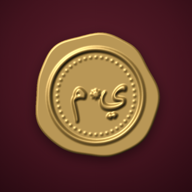
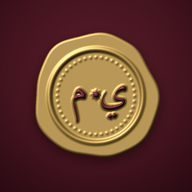
update stamp and names

Changed region(s): [[0.375, 0.4375, 0.6562, 0.625]]

diff --git a/share/seal.html b/share/seal.html
@@ -6,6 +6,7 @@
 <!--
   Wax seal artwork, 600x600 on a transparent background.
   Rendered to src/assets/seal-wine.png (default) and seal-gold.png (#gold).
+  The monogram is inlaid in the other colour: gold on the wine seal, wine on the gold one.
   The seal is lit with SVG lighting filters: the alpha channel of #height is the
   relief (raised rim, sunken field, raised monogram), so the shading is physical
   rather than painted on.
@@ -38,10 +39,31 @@ svg{display:block}
       <feComposite in="lit" in2="specIn" operator="arithmetic" k1="0" k2="1" k3="1" k4="0" result="shine"/>
       <feComposite in="shine" in2="solid" operator="in"/>
     </filter>
+
+    <!-- The inlaid monogram: its own relief, shrunk a touch so the wax bevel still frames it -->
+    <filter id="inlay" x="0" y="0" width="600" height="600" filterUnits="userSpaceOnUse" color-interpolation-filters="sRGB">
+      <feMorphology in="SourceAlpha" operator="erode" radius="1.6" result="shape"/>
+      <feComponentTransfer in="shape" result="solid"><feFuncA type="linear" slope="30"/></feComponentTransfer>
+      <feGaussianBlur in="shape" stdDeviation="2.4" result="bump"/>
+      <feDiffuseLighting in="bump" surfaceScale="4.5" diffuseConstant="1" lighting-color="#ffffff" result="diffuse">
+        <feDistantLight azimuth="235" elevation="50"/>
+      </feDiffuseLighting>
+      <feSpecularLighting in="bump" surfaceScale="4.5" specularConstant=".95" specularExponent="18" id="inlay-spec" lighting-color="#fff3cf" result="spec">
+        <feDistantLight azimuth="235" elevation="50"/>
+      </feSpecularLighting>
+      <feFlood id="inlay-colour" flood-color="#B38B45" result="colour"/>
+      <feComposite id="inlay-shade" in="colour" in2="diffuse" operator="arithmetic" k1="1.18" k2="0" k3="0" k4="0" result="lit"/>
+      <feComposite in="spec" in2="solid" operator="in" result="specIn"/>
+      <feComposite in="lit" in2="specIn" operator="arithmetic" k1="0" k2="1" k3="1" k4="0" result="shine"/>
+      <feComposite in="shine" in2="solid" operator="in"/>
+    </filter>
   </defs>
 
   <g filter="url(#wax)">
     <g id="height"></g>
+  </g>
+  <g filter="url(#inlay)">
+    <g id="inlay-art"></g>
   </g>
 </svg>
 
@@ -53,6 +75,13 @@ if (gold) {
   const spec = document.getElementById('spec-l');
   spec.setAttribute('lighting-color', '#fff0c8');
   spec.setAttribute('specularConstant', '.62');
+
+  // Wine monogram on gold wax
+  document.getElementById('inlay-colour').setAttribute('flood-color', '#5E1C2A');
+  document.getElementById('inlay-shade').setAttribute('k1', '1.1');
+  const inlaySpec = document.getElementById('inlay-spec');
+  inlaySpec.setAttribute('lighting-color', '#ffdfe5');
+  inlaySpec.setAttribute('specularConstant', '.4');
 }
 
 const NS = 'http://www.w3.org/2000/svg';
@@ -98,15 +127,20 @@ for (let i = 0; i < 44; i++) {
   el(h, 'circle', { cx: C + (R - 24) * Math.cos(a), cy: C + (R - 24) * Math.sin(a), r: 2.8, fill: '#000', 'fill-opacity': .7 });
 }
 
-// Monogram: ي (Yousef) on the right, م (Malak) on the left, a small eight-pointed star between
-const letters = el(h, 'g', { fill: '#000', 'fill-opacity': .9, 'font-family': 'Amiri', 'font-weight': 700, 'font-size': 150, 'text-anchor': 'middle' });
-el(letters, 'text', { x: C + 66, y: C + 22 }).textContent = 'ي';
-el(letters, 'text', { x: C - 64, y: C + 22 }).textContent = 'م';
-const star = Array.from({ length: 16 }, (_, i) => {
-  const a = (i * 22.5 - 90) * Math.PI / 180, r = i % 2 ? 12 : 21;
-  return `${(C + r * Math.cos(a)).toFixed(2)},${(C - 6 + r * Math.sin(a)).toFixed(2)}`;
-}).join(' ');
-el(h, 'polygon', { points: star, fill: '#000', 'fill-opacity': .88 });
+// Monogram: ي (Yousef) on the right, م (Malak) on the left, a small eight-pointed star between.
+// Drawn twice: raised in the wax relief, then again as the coloured inlay on top.
+const monogram = (parent, opacity) => {
+  const letters = el(parent, 'g', { fill: '#000', 'fill-opacity': opacity, 'font-family': 'Amiri', 'font-weight': 700, 'font-size': 150, 'text-anchor': 'middle' });
+  el(letters, 'text', { x: C + 66, y: C + 22 }).textContent = 'ي';
+  el(letters, 'text', { x: C - 64, y: C + 22 }).textContent = 'م';
+  const star = Array.from({ length: 16 }, (_, i) => {
+    const a = (i * 22.5 - 90) * Math.PI / 180, r = i % 2 ? 12 : 21;
+    return `${(C + r * Math.cos(a)).toFixed(2)},${(C - 6 + r * Math.sin(a)).toFixed(2)}`;
+  }).join(' ');
+  el(parent, 'polygon', { points: star, fill: '#000', 'fill-opacity': opacity });
+};
+monogram(h, .9);
+monogram(document.getElementById('inlay-art'), 1);
 </script>
 </body>
 </html>

diff --git a/src/i18n.tsx b/src/i18n.tsx
@@ -79,7 +79,7 @@ const ar: Strings = {
 
   brideFamilyLabel: 'عائلة العروس',
   groomFamilyLabel: 'عائلة العريس',
-  brideFamilyLine1: 'المهندس علّام نجار',
+  brideFamilyLine1: 'السيد علّام نجار',
   brideFamilyLine2: 'وحرمه',
   groomFamilyLine1: 'السيد زيدون بلعاوي',
   groomFamilyLine2: 'وحرمه',
@@ -136,7 +136,7 @@ const en: Strings = {
 
   brideFamilyLabel: "Bride's Family",
   groomFamilyLabel: "Groom's Family",
-  brideFamilyLine1: 'Eng. & Mrs.',
+  brideFamilyLine1: 'Mr. & Mrs.',
   brideFamilyLine2: 'Allam Najjar',
   groomFamilyLine1: 'Mr. & Mrs.',
   groomFamilyLine2: 'Zaidoun Balawi',

diff --git a/share/card-v2.html b/share/card-v2.html
@@ -122,7 +122,7 @@ body.evening .seal-gold{display:block;filter:drop-shadow(0 6px 10px rgba(0,0,0,.
   <div class="fams">
     <div><small>عائلة العريس</small><b>السيد زيدون بلعاوي وحرمه</b></div>
     <i class="vrule"></i>
-    <div><small>عائلة العروس</small><b>المهندس علّام نجار وحرمه</b></div>
+    <div><small>عائلة العروس</small><b>السيد علّام نجار وحرمه</b></div>
   </div>
 
   <div class="intro">يتشرفون بدعوتكم لحضور حفل زفاف أبنائهم ومشاركتهم فرحتهم</div>
